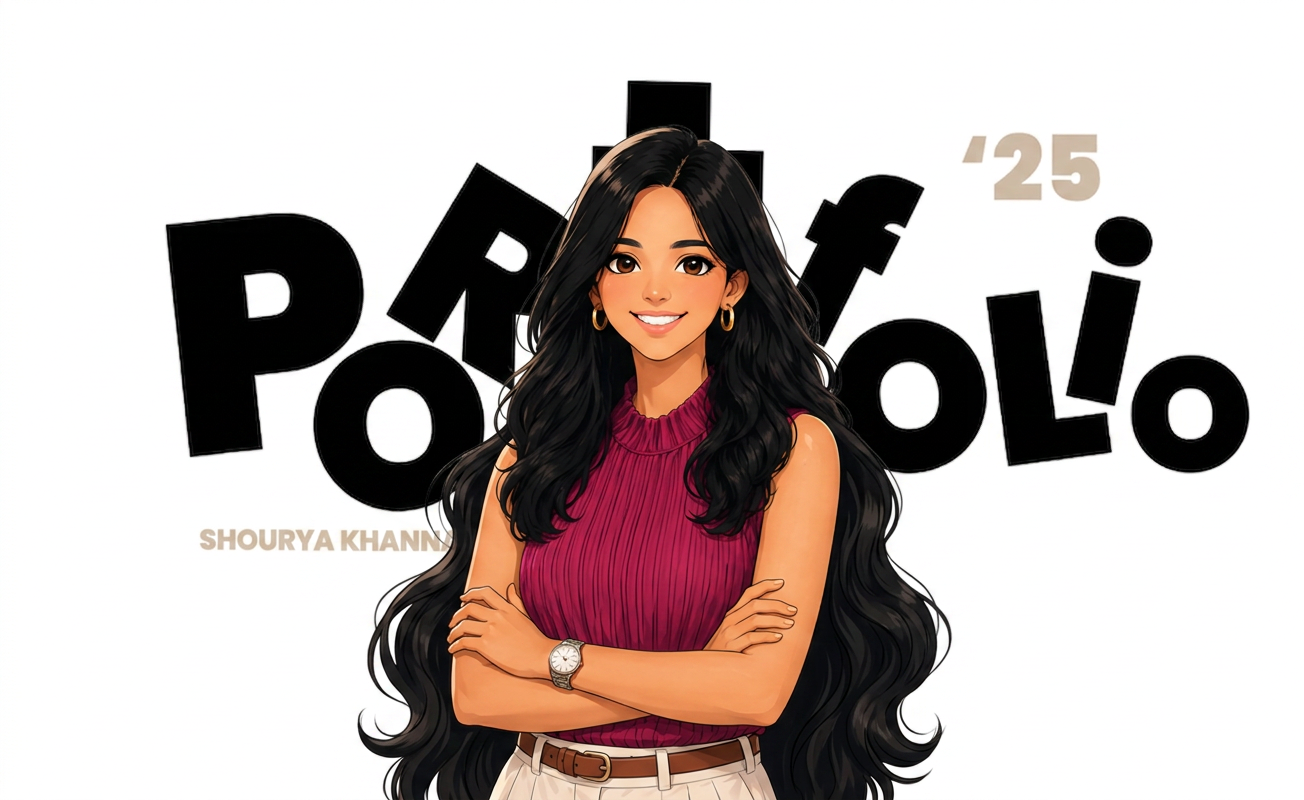
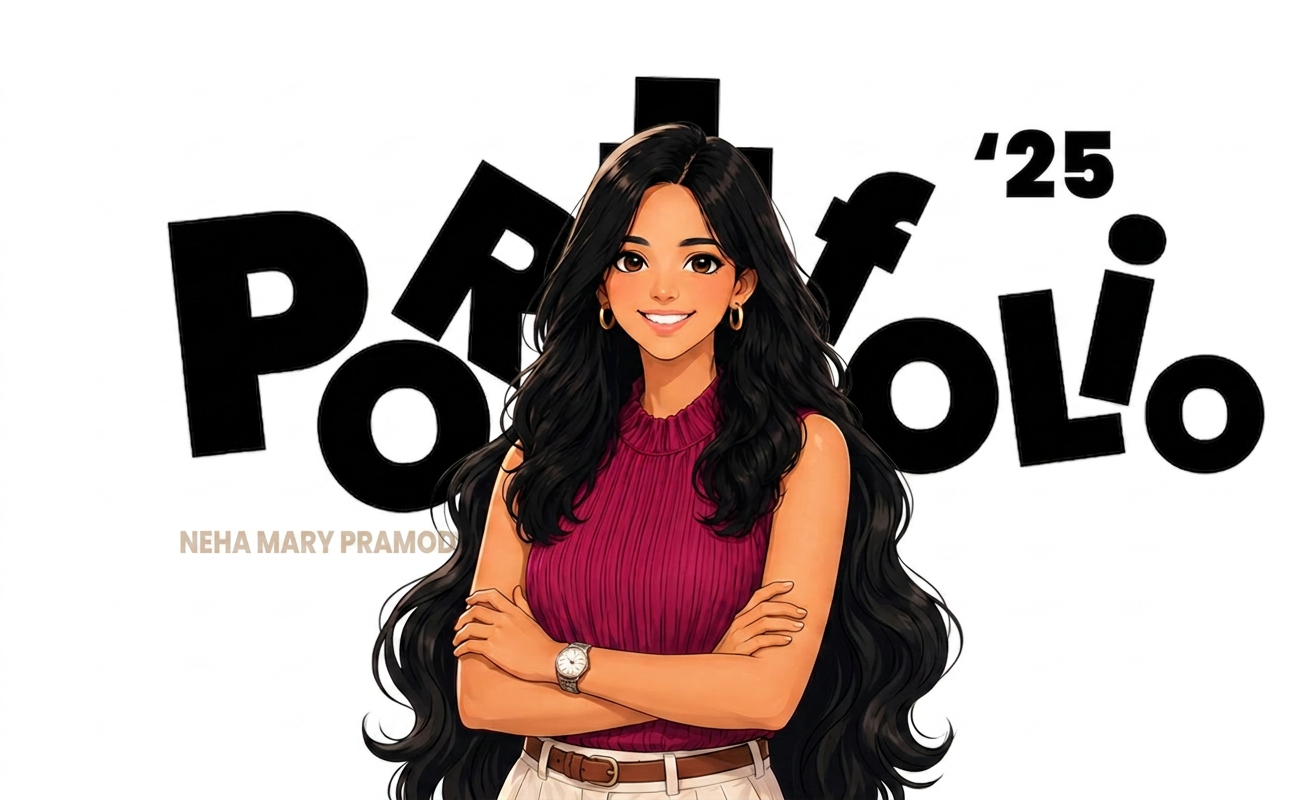
Changes

diff --git a/src/routes/contact.tsx b/src/routes/contact.tsx
@@ -5,9 +5,9 @@ import { Mail, Linkedin, Github, ArrowRight } from "lucide-react";
 export const Route = createFileRoute("/contact")({
   head: () => ({
     meta: [
-      { title: "Contact — Shourya Khanna" },
-      { name: "description", content: "Get in touch with Shourya Khanna for collaborations, projects, and opportunities." },
-      { property: "og:title", content: "Contact — Shourya Khanna" },
+      { title: "Contact — Neha Mary Pramod" },
+      { name: "description", content: "Get in touch with Neha Mary Pramod for collaborations, projects, and opportunities." },
+      { property: "og:title", content: "Contact — Neha Mary Pramod" },
       { property: "og:description", content: "Let's connect — collaborations, projects, and opportunities." },
     ],
   }),
@@ -15,9 +15,9 @@ export const Route = createFileRoute("/contact")({
 });
 
 const channels = [
-  { icon: Mail, label: "Email", value: "hello@shourya.dev", href: "mailto:hello@shourya.dev", desc: "Get in touch via email" },
-  { icon: Linkedin, label: "LinkedIn", value: "shourya-khanna", href: "https://linkedin.com", desc: "Connect with me professionally" },
-  { icon: Github, label: "GitHub", value: "shouryakhanna", href: "https://github.com", desc: "Check out my code on GitHub" },
+  { icon: Mail, label: "Email", value: "hello@nehamary.dev", href: "mailto:hello@nehamary.dev", desc: "Get in touch via email" },
+  { icon: Linkedin, label: "LinkedIn", value: "neha-mary-pramod", href: "https://linkedin.com", desc: "Connect with me professionally" },
+  { icon: Github, label: "GitHub", value: "nehamary", href: "https://github.com", desc: "Check out my code on GitHub" },
 ];
 
 function ContactPage() {

diff --git a/src/routes/index.tsx b/src/routes/index.tsx
@@ -7,9 +7,9 @@ import { Layout } from "@/components/portfolio/Layout";
 export const Route = createFileRoute("/")({
   head: () => ({
     meta: [
-      { title: "Shourya Khanna — Portfolio '25" },
+      { title: "Neha Mary Pramod — Portfolio '25" },
       { name: "description", content: "Full Stack Web Developer crafting beautiful, high-performance web applications with modern technologies." },
-      { property: "og:title", content: "Shourya Khanna — Portfolio '25" },
+      { property: "og:title", content: "Neha Mary Pramod — Portfolio '25" },
       { property: "og:description", content: "Full Stack Web Developer crafting beautiful, high-performance web applications." },
     ],
   }),
@@ -25,7 +25,7 @@ function Index() {
           <div className="rounded-3xl bg-card shadow-[var(--shadow-soft)] border border-border/60 overflow-hidden">
             <img
               src={heroImg}
-              alt="Shourya Khanna — Portfolio 2025 illustrated hero"
+              alt="Neha Mary Pramod — Portfolio 2025 illustrated hero"
               className="w-full h-auto block"
               loading="eager"
             />
@@ -37,7 +37,7 @@ function Index() {
                 Welcome to my portfolio
               </span>
               <h1 className="mt-4 text-5xl md:text-7xl font-display leading-[0.95]">
-                Hi, I'm <span className="italic font-light text-[var(--brand-rose)]">Shourya</span>
+                Hi, I'm <span className="italic font-light text-[var(--brand-rose)]">Neha</span>
                 <br />
                 Khanna.
               </h1>

diff --git a/src/routes/about.tsx b/src/routes/about.tsx
@@ -6,10 +6,10 @@ import avatar from "@/assets/avatar.png";
 export const Route = createFileRoute("/about")({
   head: () => ({
     meta: [
-      { title: "About — Shourya Khanna" },
-      { name: "description", content: "Get to know Shourya Khanna — a passionate full-stack developer focused on intuitive, impactful digital experiences." },
-      { property: "og:title", content: "About — Shourya Khanna" },
-      { property: "og:description", content: "Get to know Shourya Khanna — passionate full-stack developer." },
+      { title: "About — Neha Mary Pramod" },
+      { name: "description", content: "Get to know Neha Mary Pramod — a passionate full-stack developer focused on intuitive, impactful digital experiences." },
+      { property: "og:title", content: "About — Neha Mary Pramod" },
+      { property: "og:description", content: "Get to know Neha Mary Pramod — passionate full-stack developer." },
     ],
   }),
   component: AboutPage,
@@ -31,7 +31,7 @@ function AboutPage() {
 
         <div className="mt-12 grid md:grid-cols-[260px_1fr] gap-10 items-start">
           <div className="rounded-3xl overflow-hidden border border-border/60 bg-secondary/40 shadow-[var(--shadow-card)]">
-            <img src={avatar} alt="Shourya Khanna" className="w-full h-auto block" />
+            <img src={avatar} alt="Neha Mary Pramod" className="w-full h-auto block" />
           </div>
 
           <div className="space-y-5 text-lg text-muted-foreground leading-relaxed">

diff --git a/src/routes/__root.tsx b/src/routes/__root.tsx
@@ -29,10 +29,10 @@ export const Route = createRootRoute({
     meta: [
       { charSet: "utf-8" },
       { name: "viewport", content: "width=device-width, initial-scale=1" },
-      { title: "Shourya Khanna — Portfolio '25" },
-      { name: "description", content: "Portfolio of Shourya Khanna — Full Stack Web Developer crafting beautiful, high-performance web applications." },
-      { name: "author", content: "Shourya Khanna" },
-      { property: "og:title", content: "Shourya Khanna — Portfolio '25" },
+      { title: "Neha Mary Pramod — Portfolio '25" },
+      { name: "description", content: "Portfolio of Neha Mary Pramod — Full Stack Web Developer crafting beautiful, high-performance web applications." },
+      { name: "author", content: "Neha Mary Pramod" },
+      { property: "og:title", content: "Neha Mary Pramod — Portfolio '25" },
       { property: "og:description", content: "Full Stack Web Developer building elegant, modern digital experiences." },
       { property: "og:type", content: "website" },
       { name: "twitter:card", content: "summary" },

diff --git a/src/components/portfolio/Footer.tsx b/src/components/portfolio/Footer.tsx
@@ -5,10 +5,10 @@ export function Footer() {
     <footer className="border-t border-border/60 mt-24">
       <div className="mx-auto max-w-6xl px-6 py-10 flex flex-col md:flex-row gap-4 items-center justify-between">
         <p className="text-sm text-muted-foreground">
-          © {new Date().getFullYear()} Shourya Khanna. Crafted with care.
+          © {new Date().getFullYear()} Neha Mary Pramod. Crafted with care.
         </p>
         <div className="flex items-center gap-4 text-muted-foreground">
-          <a href="mailto:hello@shourya.dev" aria-label="Email" className="hover:text-foreground transition-colors">
+          <a href="mailto:hello@nehamary.dev" aria-label="Email" className="hover:text-foreground transition-colors">
             <Mail className="h-5 w-5" />
           </a>
           <a href="https://github.com" target="_blank" rel="noreferrer" aria-label="GitHub" className="hover:text-foreground transition-colors">

diff --git a/src/routes/skills.tsx b/src/routes/skills.tsx
@@ -4,10 +4,10 @@ import { Layout } from "@/components/portfolio/Layout";
 export const Route = createFileRoute("/skills")({
   head: () => ({
     meta: [
-      { title: "Skills — Shourya Khanna" },
-      { name: "description", content: "A comprehensive overview of Shourya's technical expertise across frontend, backend, and tooling." },
-      { property: "og:title", content: "Skills — Shourya Khanna" },
-      { property: "og:description", content: "Frontend, backend, languages and tools — Shourya's stack." },
+      { title: "Skills — Neha Mary Pramod" },
+      { name: "description", content: "A comprehensive overview of Neha's technical expertise across frontend, backend, and tooling." },
+      { property: "og:title", content: "Skills — Neha Mary Pramod" },
+      { property: "og:description", content: "Frontend, backend, languages and tools — Neha's stack." },
     ],
   }),
   component: SkillsPage,

diff --git a/src/routes/certificates.tsx b/src/routes/certificates.tsx
@@ -5,9 +5,9 @@ import { Award } from "lucide-react";
 export const Route = createFileRoute("/certificates")({
   head: () => ({
     meta: [
-      { title: "Certificates & Achievements — Shourya Khanna" },
-      { name: "description", content: "Certificates, courses, and achievements earned by Shourya Khanna." },
-      { property: "og:title", content: "Certificates & Achievements — Shourya Khanna" },
+      { title: "Certificates & Achievements — Neha Mary Pramod" },
+      { name: "description", content: "Certificates, courses, and achievements earned by Neha Mary Pramod." },
+      { property: "og:title", content: "Certificates & Achievements — Neha Mary Pramod" },
       { property: "og:description", content: "Certificates, courses, and achievements." },
     ],
   }),

diff --git a/src/routes/projects.tsx b/src/routes/projects.tsx
@@ -5,9 +5,9 @@ import { ArrowUpRight } from "lucide-react";
 export const Route = createFileRoute("/projects")({
   head: () => ({
     meta: [
-      { title: "Projects — Shourya Khanna" },
-      { name: "description", content: "Innovative solutions and web applications built by Shourya Khanna." },
-      { property: "og:title", content: "Projects — Shourya Khanna" },
+      { title: "Projects — Neha Mary Pramod" },
+      { name: "description", content: "Innovative solutions and web applications built by Neha Mary Pramod." },
+      { property: "og:title", content: "Projects — Neha Mary Pramod" },
       { property: "og:description", content: "Innovative solutions and web applications." },
     ],
   }),

diff --git a/src/components/portfolio/Navbar.tsx b/src/components/portfolio/Navbar.tsx
@@ -19,7 +19,7 @@ export function Navbar() {
       <div className="mx-auto max-w-6xl px-6 h-16 flex items-center justify-between">
         <Link to="/" className="flex items-center gap-2 font-display text-xl tracking-tight">
           <span className="inline-block h-2.5 w-2.5 rounded-full bg-foreground" />
-          Shourya<span className="text-muted-foreground">.</span>
+          Neha<span className="text-muted-foreground">.</span>
         </Link>
 
         <nav className="hidden md:flex items-center gap-1">
